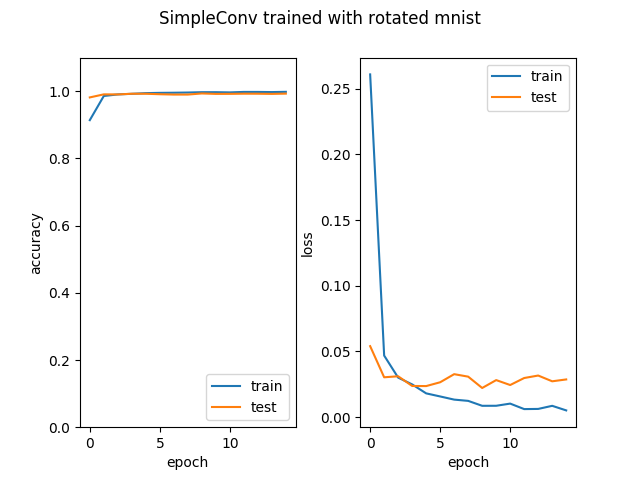
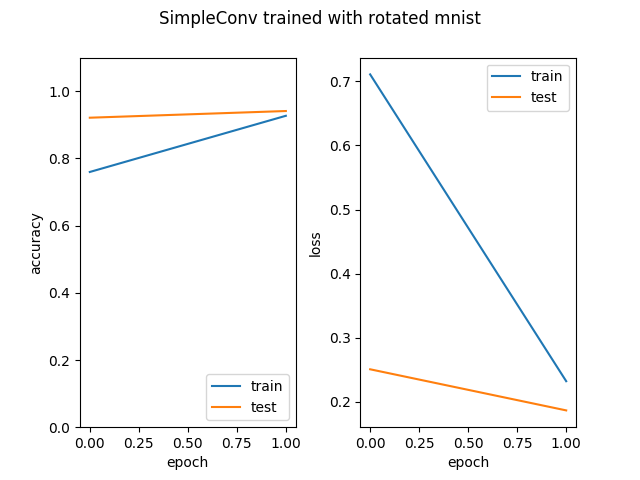
fixed trarining bug wrt rotations

diff --git a/variance_measure/iterators/pytorch_image_dataset.py b/variance_measure/iterators/pytorch_image_dataset.py
@@ -28,31 +28,33 @@ class ImageDataset(Dataset):
         elif dataformat=="NHWC":
             n, w, h, c = x.shape
         else:
-            raise ValueError
+            raise ValueError(f"Unsupported data format: {dataformat}.")
         self.h = h
         self.w = w
         mu, std = self.calculate_mu_std(x, dataformat)
 
         transformations = [transforms.ToPILImage(), ]
 
-        if rotation is None:
-            rotation = 0
-        if translation is None:
-            translation = (0,0)
-        if scale is None:
-            scale = 1
-
-
-
-        def affine_transform(image):
-            return functional.affine(image,shear=0,angle=rotation,translate=translation,
-                              scale=scale,resample=Image.BILINEAR)
-        affine=transforms.Lambda(affine_transform)
-        transformations.append(affine)
-
-        if not translation is None or not scale is None:
-            scale_transformation = transforms.Resize((h,w))
-            transformations.append(scale_transformation)
+        # if rotation is None:
+        #     rotation = 0
+        # if translation is None:
+        #     translation = (0,0)
+        # if scale is None:
+        #     scale = 1
+        #
+        #
+        #
+        # def affine_transform(image):
+        #     return functional.affine(image,shear=0,angle=rotation,translate=translation,
+        #                       scale=scale,resample=Image.BILINEAR)
+        # affine=transforms.Lambda(affine_transform)
+        # transformations.append(affine)
+        #
+        # if not translation is None or not scale is None:
+        #     scale_transformation = transforms.Resize((h,w))
+        #     transformations.append(scale_transformation)
+        if rotation is not None:
+            transformations.append(transforms.RandomRotation(degrees=rotation))
 
         transformations.append(transforms.ToTensor())
         transformations.append(transforms.Normalize(mu, std))
@@ -75,7 +77,8 @@ class ImageDataset(Dataset):
         std = xf.std(dim=dims) / 255
 
         std[std == 0] = 1
-        return mu,std
+        return mu.numpy(), std.numpy()
+
     def __len__(self):
         return len(self.dataset)
 

diff --git a/pytorch/classification_dataset.py b/pytorch/classification_dataset.py
@@ -1,15 +1,17 @@
 from torch.utils.data import DataLoader
-
+import numpy as np
 from variance_measure.iterators.pytorch_activations_iterator import ImageDataset
 from pytorch.numpy_dataset import NumpyDataset
+
 def get_data_generator(x,y,batch_size):
 
     dataset=NumpyDataset(x,y)
 
     image_dataset=ImageDataset(dataset)
-    dataloader=DataLoader(image_dataset,batch_size=batch_size,shuffle=True,num_workers=0)
+    dataloader=DataLoader(image_dataset,batch_size=batch_size,shuffle=True,num_workers=1)
 
-    image_rotated_dataset = ImageDataset(dataset, rotation=180)
-    rotated_dataloader= DataLoader(image_rotated_dataset , batch_size=batch_size, shuffle=True, num_workers=0)
+    rotated_dataset = NumpyDataset(x, y)
+    image_rotated_dataset = ImageDataset(rotated_dataset, rotation=(-180,180))
+    rotated_dataloader= DataLoader(image_rotated_dataset , batch_size=batch_size, shuffle=True, num_workers=1)
 
     return dataloader,rotated_dataloader

diff --git a/experiment_training.py b/experiment_training.py
@@ -26,7 +26,7 @@ else:
 
 
 
-verbose=False
+verbose=True
 
 dataset = datasets.get(dataset_name)
 if verbose:
@@ -53,7 +53,6 @@ config=rotation.TrainRotatedConfig(batch_size=batch_size,
                        pre_rotated_epochs=pre_rotated_epochs,
                         optimizer=optimizer,rotated_optimizer=rotated_optimizer,
                       use_cuda=use_cuda)
-
 
 scores=rotation.run(config,model,rotated_model,dataset,plot_accuracy=True,save_plots=True)
 rotation.print_scores(scores)
